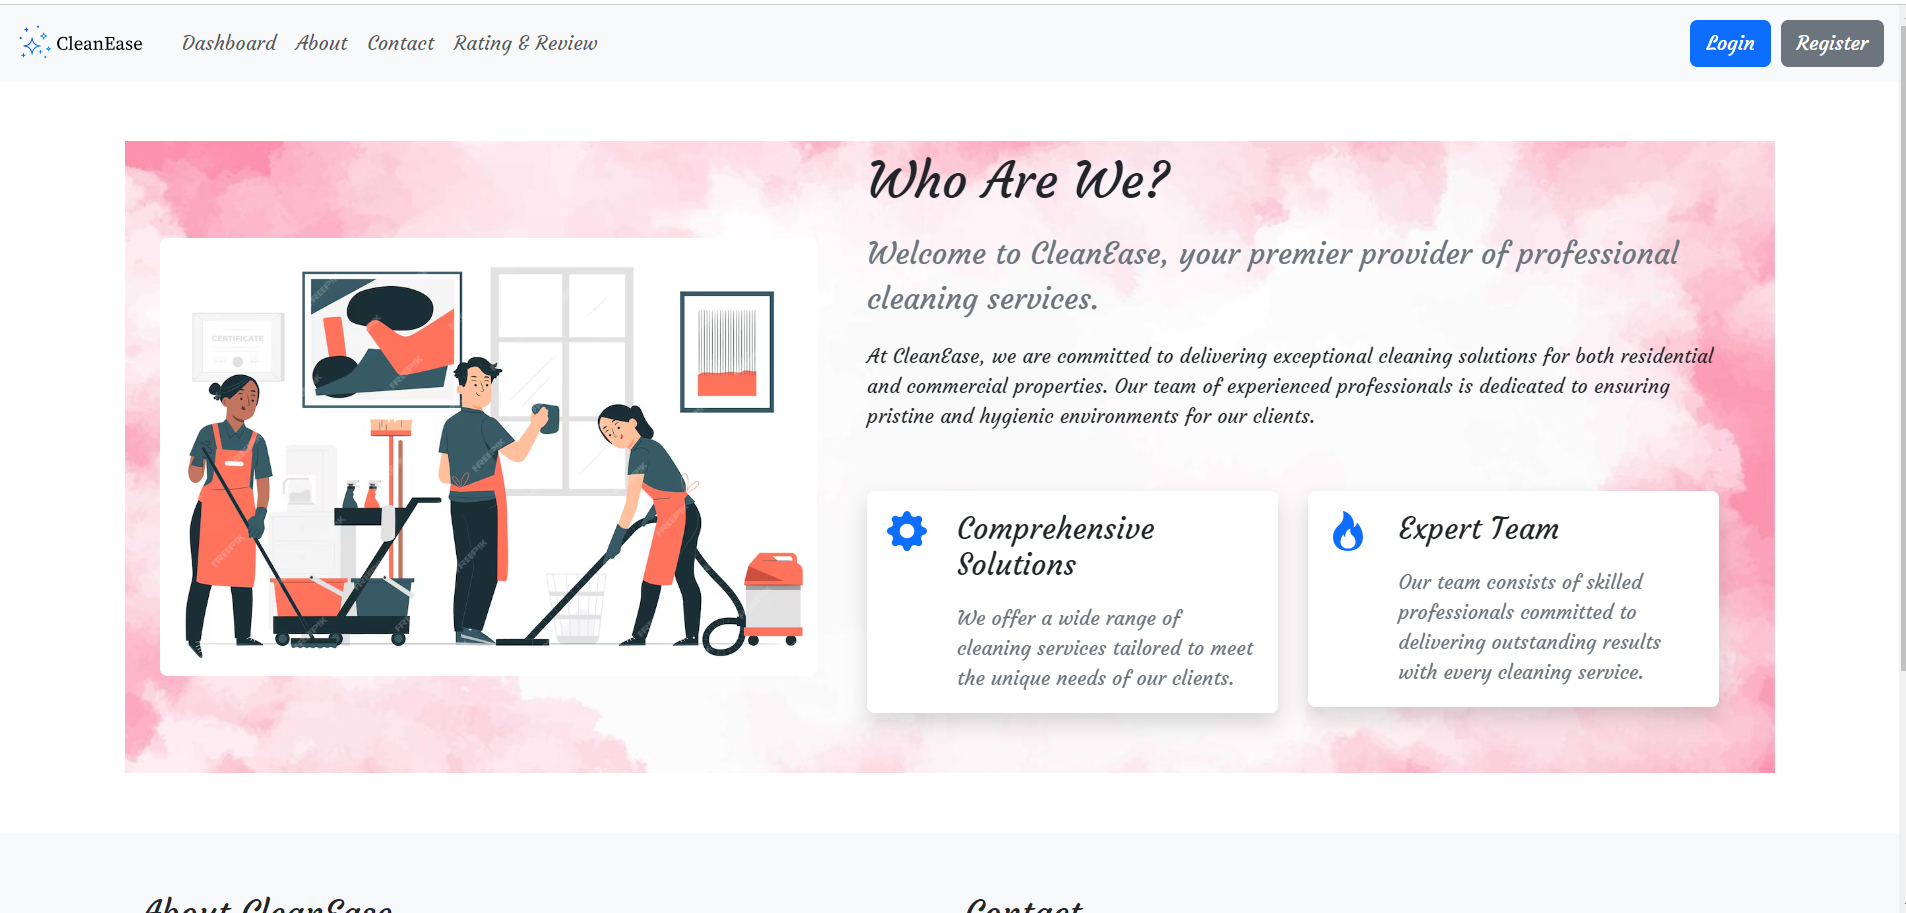
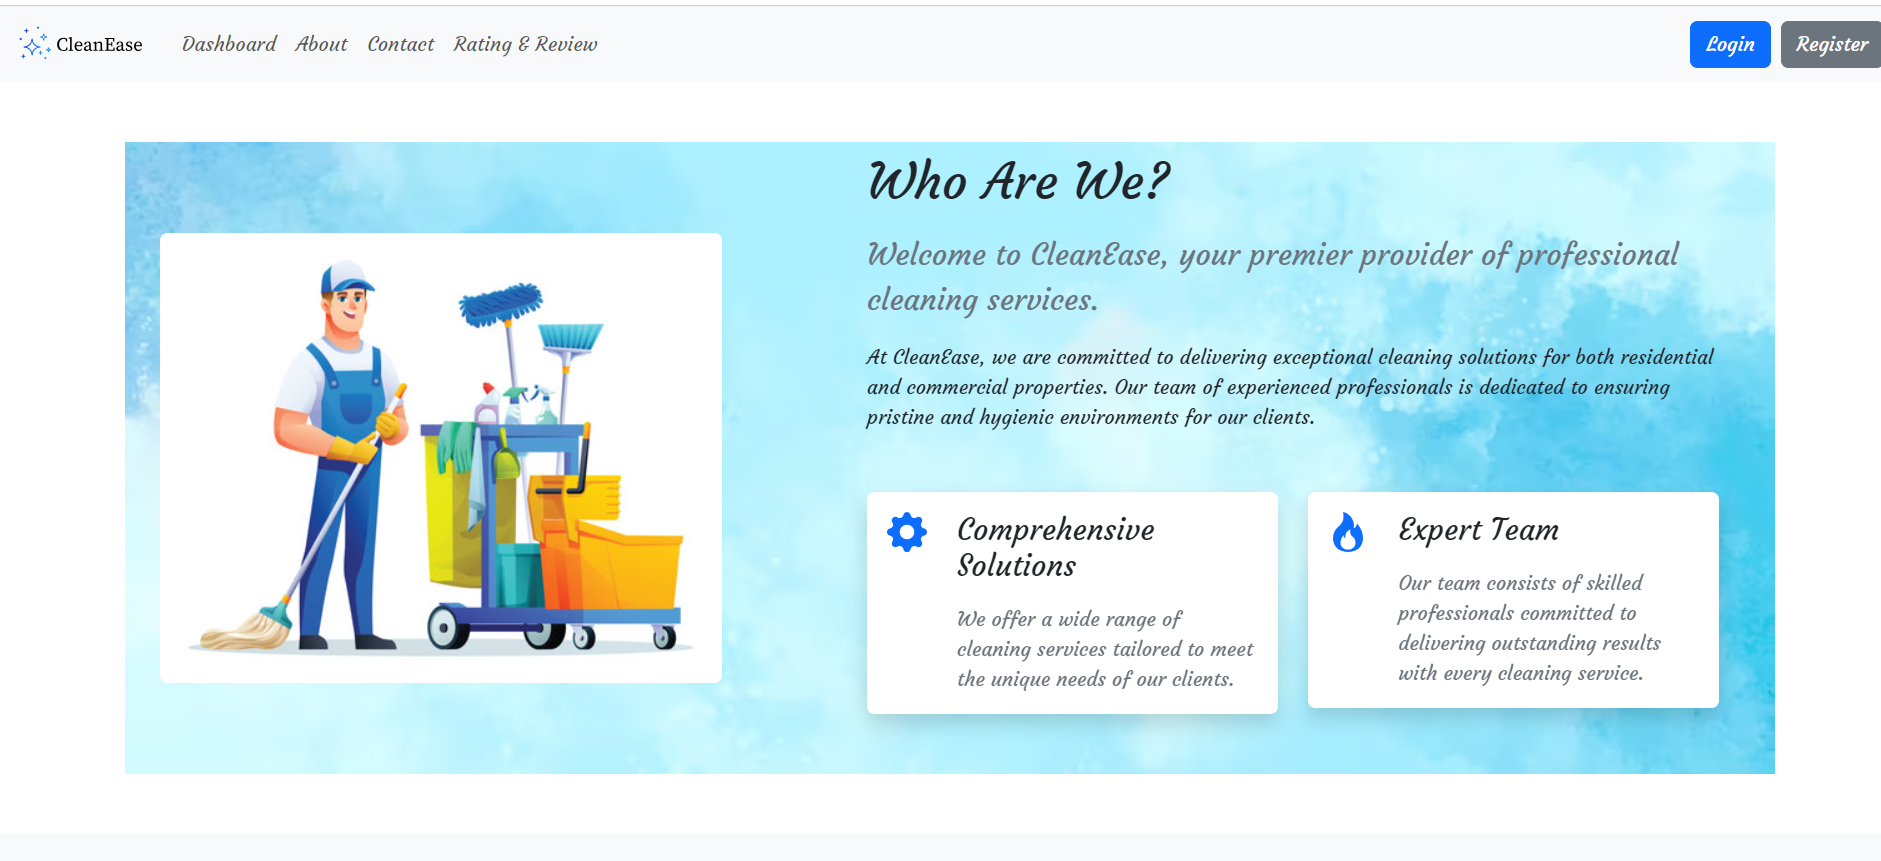
add these changes

diff --git a/src/Screens/CleaningServicesAbout.jsx b/src/Screens/CleaningServicesAbout.jsx
@@ -4,10 +4,10 @@ import React from 'react';
 const CleaningServicesAbout = () => {
   return (
     <section className="py-3 py-md-5 py-xl-8">
-      <div className="container" style={{ backgroundImage: `url(https://img.freepik.com/free-vector/pink-watercolor-banner_41066-1945.jpg?w=1380&t=st=1726351754~exp=1726352354~hmac=171e6e17d3b0147cd6281c6e224b6763aff152b84fd90b5ddf30ff6c8bceb2c7)`, backgroundSize: 'cover', backgroundPosition: 'center' }}>
+      <div className="container" style={{ backgroundImage: `url(https://img.freepik.com/free-vector/abstract-watercolor-pastel-background_87374-139.jpg?t=st=1715597294~exp=1715600894~hmac=d19587c2a68906da2c84f39be30fe5fe21cec0adc37814b8f0c6c8afc7562952&w=900)`, backgroundSize: 'cover', backgroundPosition: 'center' }}>
         <div className="row gy-3 gy-md-4 gy-lg-0 align-items-lg-center">
           <div className="col-12 col-lg-6 col-xl-5 animate__animated animate__fadeInLeft">
-            <img className="img-fluid rounded mx-3" loading="lazy" src="https://img.freepik.com/free-vector/cleaning-service-concept-illustration_114360-9785.jpg?w=996&t=st=1726354708~exp=1726355308~hmac=8a5f8bf0c2cce2d44beb6b26525e974fb94b909c71df6629aae174c6daa1bd11" alt="Cleaning Services" />
+            <img className="img-fluid rounded mx-3" loading="lazy" src="https://t4.ftcdn.net/jpg/05/78/61/03/360_F_578610304_3AxU7UsNrKyxj0IlgukFpLgX3I9EftX4.jpg" alt="Cleaning Services" />
           </div>
           <div className="col-12 col-lg-6 col-xl-7 animate__animated animate__fadeInRight">
             <div className="row justify-content-xl-center">

diff --git a/src/Screens/Contact.jsx b/src/Screens/Contact.jsx
@@ -47,7 +47,7 @@ const Contact = () => {
   };
 
   return (
-    <div className="container mt-5" style={{ backgroundImage: `url(https://img.freepik.com/free-vector/pink-watercolor-banner_41066-1945.jpg?w=1380&t=st=1726351754~exp=1726352354~hmac=171e6e17d3b0147cd6281c6e224b6763aff152b84fd90b5ddf30ff6c8bceb2c7)`, backgroundSize: 'cover', backgroundPosition: 'center' }}>
+    <div className="container mt-5" style={{ backgroundImage: `url(https://img.freepik.com/free-vector/abstract-watercolor-pastel-background_87374-139.jpg?t=st=1715597294~exp=1715600894~hmac=d19587c2a68906da2c84f39be30fe5fe21cec0adc37814b8f0c6c8afc7562952&w=900)`, backgroundSize: 'cover', backgroundPosition: 'center' }}>
       <h1 className="text-center animate__animated animate__slideInDown" style={{ color: 'red' }}>CONTACT</h1>
       <p className="text-center animate__animated animate__fadeIn" style={{ color: 'black' }}>Cleanease has been dedicated to delivering top-notch cleaning services for over 16 years. Our team takes pride in providing meticulous cleaning solutions for both residential and commercial properties. We frequently meet clients in person and are passionate about sharing our expertise at educational events on maintaining clean and healthy environments.</p>
 

diff --git a/src/components/LandingPage.jsx b/src/components/LandingPage.jsx
@@ -35,12 +35,12 @@ const Image = styled.img`
 
 const LandingPage = () => {
   return (
-    <LandingPageWrapper style={{ backgroundImage: `url(https://img.freepik.com/free-vector/pink-watercolor-banner_41066-1945.jpg?w=1380&t=st=1726351754~exp=1726352354~hmac=171e6e17d3b0147cd6281c6e224b6763aff152b84fd90b5ddf30ff6c8bceb2c7)`, backgroundSize: 'cover', backgroundPosition: 'center' }}>
+    <LandingPageWrapper style={{ backgroundImage: `url(https://img.freepik.com/free-vector/abstract-watercolor-pastel-background_87374-139.jpg?t=st=1715597294~exp=1715600894~hmac=d19587c2a68906da2c84f39be30fe5fe21cec0adc37814b8f0c6c8afc7562952&w=900)`, backgroundSize: 'cover', backgroundPosition: 'center' }}>
       <Container>
         <Row>
           <Col lg={6}>
             <img
-              src="https://media4.giphy.com/media/v1.Y2lkPTc5MGI3NjExNDdnMGN2cnJvcWhkZ2dhcTFlM2dqZ2JhcnY2d3R2amJzd3kzYmQ2eiZlcD12MV9pbnRlcm5hbF9naWZfYnlfaWQmY3Q9Zw/w8j2t9Rc28TSLavmt0/giphy.webp"
+              src="https://cdn.dribbble.com/users/6498639/screenshots/15141150/media/b306a0b1906db326d48d3f6921698a65.gif"
               alt="CleanEase"
               style={{
                 borderRadius: '10px', 

diff --git a/src/Screens/Login.jsx b/src/Screens/Login.jsx
@@ -56,7 +56,7 @@ const Login = () => {
   
   
   return (
-    <section className="vh-100 d-flex justify-content-center align-items-center" style={{ backgroundImage: `url(https://img.freepik.com/free-vector/pink-watercolor-banner_41066-1945.jpg?w=1380&t=st=1726351754~exp=1726352354~hmac=171e6e17d3b0147cd6281c6e224b6763aff152b84fd90b5ddf30ff6c8bceb2c7)`, backgroundSize: 'cover', backgroundPosition: 'center' }}>
+    <section className="vh-100 d-flex justify-content-center align-items-center" style={{ backgroundImage: `url(https://img.freepik.com/free-vector/abstract-watercolor-pastel-background_87374-139.jpg?t=st=1715597294~exp=1715600894~hmac=d19587c2a68906da2c84f39be30fe5fe21cec0adc37814b8f0c6c8afc7562952&w=900)`, backgroundSize: 'cover', backgroundPosition: 'center' }}>
       <div className="container">
         <div className="row justify-content-center">
           <div className="col-md-8 col-lg-6 col-xl-5">

diff --git a/src/Screens/Register.jsx b/src/Screens/Register.jsx
@@ -55,7 +55,7 @@ const Signup = () => {
   };
 
   return (
-    <section className="vh-100" style={{ backgroundImage: `url(https://img.freepik.com/free-vector/pink-watercolor-banner_41066-1945.jpg?w=1380&t=st=1726351754~exp=1726352354~hmac=171e6e17d3b0147cd6281c6e224b6763aff152b84fd90b5ddf30ff6c8bceb2c7)`, backgroundSize: 'cover', backgroundPosition: 'center' }}>
+    <section className="vh-100" style={{ backgroundImage: `url(https://img.freepik.com/free-vector/abstract-watercolor-pastel-background_87374-139.jpg?t=st=1715597294~exp=1715600894~hmac=d19587c2a68906da2c84f39be30fe5fe21cec0adc37814b8f0c6c8afc7562952&w=900)`, backgroundSize: 'cover', backgroundPosition: 'center' }}>
       <ToastContainer />
       <div className="container h-100">
         <div className="row d-flex justify-content-center align-items-center h-100">
